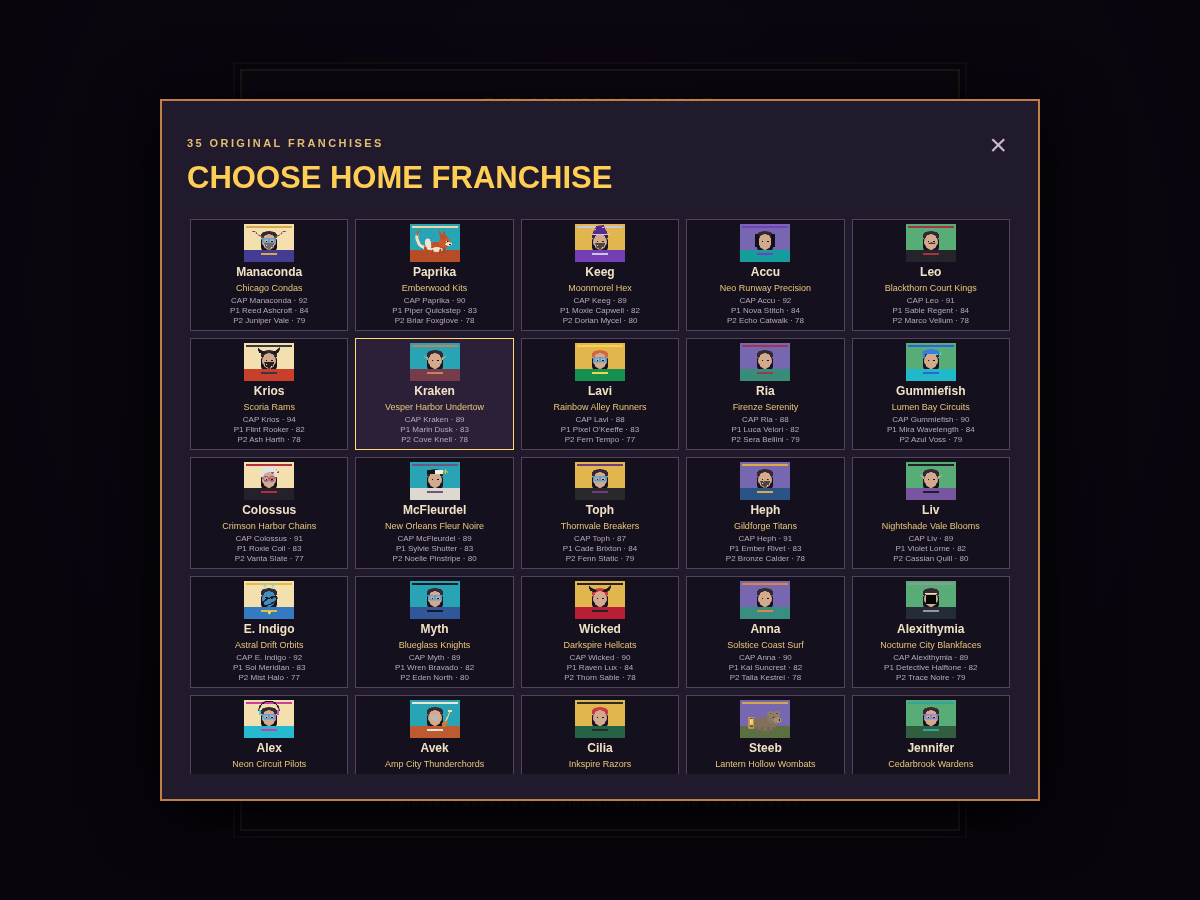
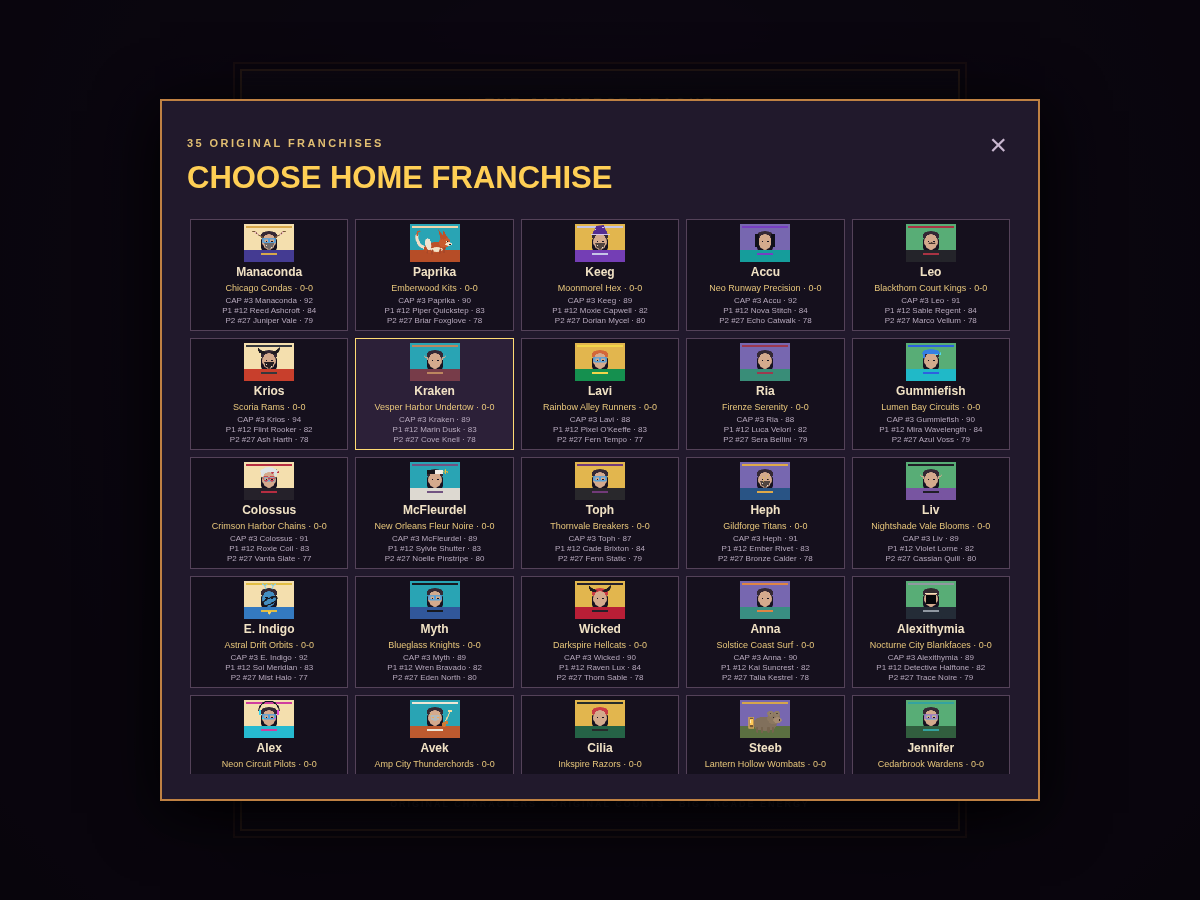
Show jersey numbers and team records in franchise grid

diff --git a/dist/JAMVERSE_96.html b/dist/JAMVERSE_96.html
@@ -764,13 +764,15 @@ function drawPortraitSignature(team,card){
   c.restore();
 }
 function updateTeamCards(){const home=teamById(homeSelect.value),away=teamById(awaySelect.value);drawCaptainCard(home,$('choose-home'));drawPortraitSignature(home,$('choose-home'));drawCaptainCard(away,$('choose-away'));drawPortraitSignature(away,$('choose-away'));}
-for(const t of teams){const button=document.createElement('button');button.type='button';button.className='team-choice';button.dataset.teamId=t.id;const portrait=document.createElement('canvas');portrait.width=84;portrait.height=64;const name=document.createElement('b'),franchise=document.createElement('i'),roster=document.createElement('small');roster.className='roster-summary';roster.textContent=t.roster.map((athlete,index)=>`${index===0?'CAP':'P'+index} ${athlete.name} · ${athlete.ovr}`).join('\n');button.title=t.roster.map(athlete=>`${athlete.name} · OVR ${athlete.ovr} · ${Object.entries(athlete.stats).map(([rating,value])=>`${rating==='three'?'3PT':rating.toUpperCase()} ${value}`).join(' / ')}`).join('\n');button.append(portrait,name,franchise,roster);drawCaptainCard(t,button);drawPortraitSignature(t,button);button.addEventListener('click',()=>{const select=pickingSide==='home'?homeSelect:awaySelect;select.value=t.id;syncLineup(select,pickingSide==='home'?homeLineup:awayLineup);save();updateTeamCards();teamDialog.close();});teamGrid.append(button)}
+  for(const t of teams){const button=document.createElement('button');button.type='button';button.className='team-choice';button.dataset.teamId=t.id;const portrait=document.createElement('canvas');portrait.width=84;portrait.height=64;const name=document.createElement('b'),franchise=document.createElement('i'),roster=document.createElement('small');roster.className='roster-summary';roster.textContent=t.roster.map((athlete,index)=>`${index===0?'CAP':'P'+index} #${athlete.number} ${athlete.name} · ${athlete.ovr}`).join('\n');button.title=t.roster.map(athlete=>`#${athlete.number} ${athlete.name} · OVR ${athlete.ovr} · ${Object.entries(athlete.stats).map(([rating,value])=>`${rating==='three'?'3PT':rating.toUpperCase()} ${value}`).join(' / ')}`).join('\n');button.append(portrait,name,franchise,roster);drawCaptainCard(t,button);drawPortraitSignature(t,button);button.addEventListener('click',()=>{const select=pickingSide==='home'?homeSelect:awaySelect;select.value=t.id;syncLineup(select,pickingSide==='home'?homeLineup:awayLineup);save();updateTeamCards();teamDialog.close();});teamGrid.append(button)}
 for(const [side,button] of [['home',$('choose-home')],['away',$('choose-away')]])button.addEventListener('click',()=>{pickingSide=side;teamDialogTitle.textContent=`CHOOSE ${side.toUpperCase()} FRANCHISE`;teamDialog.showModal()});
 const saved=loadPreferences(safeStore,teams,createSeason,seasonLength);
 saved.season=typeof saved.season==='object'&&saved.season?saved.season:createSeason(homeSelect.value||teams[0].id);
+function refreshTeamRecords(){for(const t of teams){const button=teamGrid.querySelector(`[data-team-id="${t.id}"]`),record=saved.leagueRecords[t.id];if(button){button.querySelector('i').textContent=`${t.name} · ${record.wins}-${record.losses}`;button.querySelector('i').title=`${record.wins} wins, ${record.losses} losses`;}}}
 homeSelect.value=teams.some(t=>t.id===saved.home)?saved.home:teams[0].id;awaySelect.value=teams.some(t=>t.id===saved.away)?saved.away:teams[26].id;
 syncLineup(homeSelect,homeLineup,saved.homePartnerId);syncLineup(awaySelect,awayLineup,saved.awayPartnerId);
 updateTeamCards();
+refreshTeamRecords();
 musicVolume=saved.musicVolume;effectsVolume=saved.effectsVolume;screenShake=saved.screenShake!==false;reducedFlash=Boolean(saved.reducedFlash);teamMarkers=Boolean(saved.teamMarkers);textSize=Math.max(90,Math.min(120,Number(saved.textSize)||100));document.documentElement.style.setProperty('--ui-zoom',String(textSize/100));$('music-volume').value=Math.round(musicVolume*100);$('music-volume-value').textContent=`${Math.round(musicVolume*100)}%`;$('effects-volume').value=Math.round(effectsVolume*100);$('effects-volume-value').textContent=`${Math.round(effectsVolume*100)}%`;$('screen-shake').checked=screenShake;$('reduced-flash').checked=reducedFlash;$('team-markers').checked=teamMarkers;$('text-size').value=textSize;$('text-size-value').textContent=`${textSize}%`;
  $('difficulty').value=saved.difficulty||'Pro'; $('quarter').value=String(saved.quarter||180);$('two-players').checked=Boolean(saved.twoPlayers);$('same-team').checked=Boolean(saved.sameTeam);$('same-team').disabled=!$('two-players').checked;
 function save(){safeStore.set(preferenceStorageKey,{schemaVersion:4,home:homeSelect.value,away:awaySelect.value,homePartnerId:homeLineup.value,awayPartnerId:awayLineup.value,musicVolume,effectsVolume,screenShake,reducedFlash,teamMarkers,textSize,controls:keysByPlayer,season:saved.season,leagueRecords:saved.leagueRecords,careerRecords:saved.careerRecords,difficulty:$('difficulty').value,quarter:Number($('quarter').value),twoPlayers:$('two-players').checked,sameTeam:$('same-team').checked});}
@@ -784,7 +786,7 @@ function pauseArcadeAudio(paused){if(!audio)return;if(paused&&!ui.audioPaused){u
 function beginMatch(options={}){if(homeSelect.value===awaySelect.value){eventText('Choose two different franchises for this matchup.');awaySelect.focus();return;}save();practice=Boolean(options.practice);campaign=Boolean(options.campaign);const home=teamById(homeSelect.value),away=teamById(awaySelect.value);match=createMatch({quarterSeconds:Number($('quarter').value),seed:Date.now()&0xffffffff,home,away,homePartnerId:homeLineup.value,awayPartnerId:awayLineup.value,difficulty:$('difficulty').value});match.teamNames=[home.name,away.name];match.practice=practice;if(practice)match.clock=9999;keyboardPlayers=[match.players[0].id];if($('two-players').checked)keyboardPlayers.push(match.players[$('same-team').checked?1:2].id);controlled=[...keyboardPlayers];ui.gamepadIds=new Map();ui.gpPending=new Map();ui.gamepadOnly=false;mode='game';screenStart.classList.add('hidden');screenGame.classList.remove('hidden');document.querySelector('.touch-controls').classList.toggle('practice-mode',practice);$('game').focus();refreshControlHints();if(practice)$('game-controls-hint').textContent+=' · R RESET BALL';last=0;accumulator=0;cancelAnimationFrame(raf);raf=requestAnimationFrame(frame);startArcadeMusic();tone(620,.13,'square',.1);}
 $('play').addEventListener('click',()=>beginMatch());$('practice').addEventListener('click',()=>beginMatch({practice:true}));
 $('settings').addEventListener('click',()=>$('settings-dialog').showModal());$('campaign').addEventListener('click',()=>showCampaign());
-$('reset-progress').addEventListener('click',()=>{if(!window.confirm('Reset the saved season, team standings, and player career records on this device? Settings and controls will stay saved.'))return;saved.season=createSeason(homeSelect.value);saved.leagueRecords=createLeagueTable(teams);saved.careerRecords=createCareerRecords(teams);save();eventText('Saved records reset.');});
+$('reset-progress').addEventListener('click',()=>{if(!window.confirm('Reset the saved season, team standings, and player career records on this device? Settings and controls will stay saved.'))return;saved.season=createSeason(homeSelect.value);saved.leagueRecords=createLeagueTable(teams);saved.careerRecords=createCareerRecords(teams);refreshTeamRecords();save();eventText('Saved records reset.');});
 $('standings').addEventListener('click',()=>{const list=$('standings-list');list.replaceChildren();rankLeague(saved.leagueRecords,teams).forEach((row,index)=>{const item=document.createElement('li'),diff=row.pointDifferential>0?`+${row.pointDifferential}`:String(row.pointDifferential);item.textContent=`${String(index+1).padStart(2,'0')}  ${row.teamName}  ${row.wins}-${row.losses}  PF ${row.pointsFor}  PA ${row.pointsAgainst}  ${diff}`;list.append(item)});$('standings-dialog').showModal()});
 $('careers').addEventListener('click',()=>{const list=$('career-list');list.replaceChildren();const leaders=rankCareerLeaders(saved.careerRecords,teams);if(!leaders.length){const empty=document.createElement('li');empty.textContent='No completed games yet. Play a full game to start the records.';list.append(empty)}else leaders.forEach((row,index)=>{const item=document.createElement('li');item.textContent=`${String(index+1).padStart(2,'0')}  ${row.name} · ${row.team}  ${row.points} PTS  ${row.dunks} DUNK  ${row.assists} AST  ${row.rebounds} REB  ${row.games} GP`;list.append(item)});$('career-dialog').showModal()});
 $('back-menu').addEventListener('click',()=>{cancelAnimationFrame(raf);stopArcadeMusic();mode='menu';screenGame.classList.add('hidden');screenStart.classList.remove('hidden');save();});
@@ -835,7 +837,7 @@ function frame(now){
     accumulator+=dt;const tick=1/60;const frames=inputs(),heldFrames=frames.map(input=>({...input,shootPressed:false,passPressed:false,stealPressed:false,shovePressed:false,blockPressed:false,pausePressed:false}));let firstTick=true;
     if(match.phase==='break'){const substituted=new Set();for(const input of frames){if(!input.passPressed)continue;const athlete=match.players.find(p=>p.id===input.playerId);if(athlete&&!substituted.has(athlete.team)){substitutePlayer(match,athlete.team);substituted.add(athlete.team);}}}
     while(accumulator>=tick&&!match.pause){stepMatch(match,firstTick?frames:heldFrames);if(firstTick)consumeInputEdges(frames);firstTick=false;accumulator-=tick;if(match.phase==='final')break;}
-    if(match.phase==='final'&&!match.recordsRecorded){if(!practice){saved.leagueRecords=recordLeagueResult(saved.leagueRecords,homeSelect.value,awaySelect.value,match.score);saved.careerRecords=recordCareerMatch(saved.careerRecords,match);}if(campaign){saved.season=recordSeasonResult(saved.season,match.winner===0);match.campaignResult=match.winner===0?'WIN — ADVANCED':'LOSS — RUN ENDED';}match.recordsRecorded=true;save();}
+    if(match.phase==='final'&&!match.recordsRecorded){if(!practice){saved.leagueRecords=recordLeagueResult(saved.leagueRecords,homeSelect.value,awaySelect.value,match.score);saved.careerRecords=recordCareerMatch(saved.careerRecords,match);refreshTeamRecords();}if(campaign){saved.season=recordSeasonResult(saved.season,match.winner===0);match.campaignResult=match.winner===0?'WIN — ADVANCED':'LOSS — RUN ENDED';}match.recordsRecorded=true;save();}
     playGameCue();
   }
   render();raf=requestAnimationFrame(frame);

diff --git a/dist/src/main.js b/dist/src/main.js
@@ -108,13 +108,15 @@ function drawPortraitSignature(team,card){
   c.restore();
 }
 function updateTeamCards(){const home=teamById(homeSelect.value),away=teamById(awaySelect.value);drawCaptainCard(home,$('choose-home'));drawPortraitSignature(home,$('choose-home'));drawCaptainCard(away,$('choose-away'));drawPortraitSignature(away,$('choose-away'));}
-for(const t of teams){const button=document.createElement('button');button.type='button';button.className='team-choice';button.dataset.teamId=t.id;const portrait=document.createElement('canvas');portrait.width=84;portrait.height=64;const name=document.createElement('b'),franchise=document.createElement('i'),roster=document.createElement('small');roster.className='roster-summary';roster.textContent=t.roster.map((athlete,index)=>`${index===0?'CAP':'P'+index} ${athlete.name} · ${athlete.ovr}`).join('\n');button.title=t.roster.map(athlete=>`${athlete.name} · OVR ${athlete.ovr} · ${Object.entries(athlete.stats).map(([rating,value])=>`${rating==='three'?'3PT':rating.toUpperCase()} ${value}`).join(' / ')}`).join('\n');button.append(portrait,name,franchise,roster);drawCaptainCard(t,button);drawPortraitSignature(t,button);button.addEventListener('click',()=>{const select=pickingSide==='home'?homeSelect:awaySelect;select.value=t.id;syncLineup(select,pickingSide==='home'?homeLineup:awayLineup);save();updateTeamCards();teamDialog.close();});teamGrid.append(button)}
+  for(const t of teams){const button=document.createElement('button');button.type='button';button.className='team-choice';button.dataset.teamId=t.id;const portrait=document.createElement('canvas');portrait.width=84;portrait.height=64;const name=document.createElement('b'),franchise=document.createElement('i'),roster=document.createElement('small');roster.className='roster-summary';roster.textContent=t.roster.map((athlete,index)=>`${index===0?'CAP':'P'+index} #${athlete.number} ${athlete.name} · ${athlete.ovr}`).join('\n');button.title=t.roster.map(athlete=>`#${athlete.number} ${athlete.name} · OVR ${athlete.ovr} · ${Object.entries(athlete.stats).map(([rating,value])=>`${rating==='three'?'3PT':rating.toUpperCase()} ${value}`).join(' / ')}`).join('\n');button.append(portrait,name,franchise,roster);drawCaptainCard(t,button);drawPortraitSignature(t,button);button.addEventListener('click',()=>{const select=pickingSide==='home'?homeSelect:awaySelect;select.value=t.id;syncLineup(select,pickingSide==='home'?homeLineup:awayLineup);save();updateTeamCards();teamDialog.close();});teamGrid.append(button)}
 for(const [side,button] of [['home',$('choose-home')],['away',$('choose-away')]])button.addEventListener('click',()=>{pickingSide=side;teamDialogTitle.textContent=`CHOOSE ${side.toUpperCase()} FRANCHISE`;teamDialog.showModal()});
 const saved=loadPreferences(safeStore,teams,createSeason,seasonLength);
 saved.season=typeof saved.season==='object'&&saved.season?saved.season:createSeason(homeSelect.value||teams[0].id);
+function refreshTeamRecords(){for(const t of teams){const button=teamGrid.querySelector(`[data-team-id="${t.id}"]`),record=saved.leagueRecords[t.id];if(button){button.querySelector('i').textContent=`${t.name} · ${record.wins}-${record.losses}`;button.querySelector('i').title=`${record.wins} wins, ${record.losses} losses`;}}}
 homeSelect.value=teams.some(t=>t.id===saved.home)?saved.home:teams[0].id;awaySelect.value=teams.some(t=>t.id===saved.away)?saved.away:teams[26].id;
 syncLineup(homeSelect,homeLineup,saved.homePartnerId);syncLineup(awaySelect,awayLineup,saved.awayPartnerId);
 updateTeamCards();
+refreshTeamRecords();
 musicVolume=saved.musicVolume;effectsVolume=saved.effectsVolume;screenShake=saved.screenShake!==false;reducedFlash=Boolean(saved.reducedFlash);teamMarkers=Boolean(saved.teamMarkers);textSize=Math.max(90,Math.min(120,Number(saved.textSize)||100));document.documentElement.style.setProperty('--ui-zoom',String(textSize/100));$('music-volume').value=Math.round(musicVolume*100);$('music-volume-value').textContent=`${Math.round(musicVolume*100)}%`;$('effects-volume').value=Math.round(effectsVolume*100);$('effects-volume-value').textContent=`${Math.round(effectsVolume*100)}%`;$('screen-shake').checked=screenShake;$('reduced-flash').checked=reducedFlash;$('team-markers').checked=teamMarkers;$('text-size').value=textSize;$('text-size-value').textContent=`${textSize}%`;
  $('difficulty').value=saved.difficulty||'Pro'; $('quarter').value=String(saved.quarter||180);$('two-players').checked=Boolean(saved.twoPlayers);$('same-team').checked=Boolean(saved.sameTeam);$('same-team').disabled=!$('two-players').checked;
 function save(){safeStore.set(preferenceStorageKey,{schemaVersion:4,home:homeSelect.value,away:awaySelect.value,homePartnerId:homeLineup.value,awayPartnerId:awayLineup.value,musicVolume,effectsVolume,screenShake,reducedFlash,teamMarkers,textSize,controls:keysByPlayer,season:saved.season,leagueRecords:saved.leagueRecords,careerRecords:saved.careerRecords,difficulty:$('difficulty').value,quarter:Number($('quarter').value),twoPlayers:$('two-players').checked,sameTeam:$('same-team').checked});}
@@ -128,7 +130,7 @@ function pauseArcadeAudio(paused){if(!audio)return;if(paused&&!ui.audioPaused){u
 function beginMatch(options={}){if(homeSelect.value===awaySelect.value){eventText('Choose two different franchises for this matchup.');awaySelect.focus();return;}save();practice=Boolean(options.practice);campaign=Boolean(options.campaign);const home=teamById(homeSelect.value),away=teamById(awaySelect.value);match=createMatch({quarterSeconds:Number($('quarter').value),seed:Date.now()&0xffffffff,home,away,homePartnerId:homeLineup.value,awayPartnerId:awayLineup.value,difficulty:$('difficulty').value});match.teamNames=[home.name,away.name];match.practice=practice;if(practice)match.clock=9999;keyboardPlayers=[match.players[0].id];if($('two-players').checked)keyboardPlayers.push(match.players[$('same-team').checked?1:2].id);controlled=[...keyboardPlayers];ui.gamepadIds=new Map();ui.gpPending=new Map();ui.gamepadOnly=false;mode='game';screenStart.classList.add('hidden');screenGame.classList.remove('hidden');document.querySelector('.touch-controls').classList.toggle('practice-mode',practice);$('game').focus();refreshControlHints();if(practice)$('game-controls-hint').textContent+=' · R RESET BALL';last=0;accumulator=0;cancelAnimationFrame(raf);raf=requestAnimationFrame(frame);startArcadeMusic();tone(620,.13,'square',.1);}
 $('play').addEventListener('click',()=>beginMatch());$('practice').addEventListener('click',()=>beginMatch({practice:true}));
 $('settings').addEventListener('click',()=>$('settings-dialog').showModal());$('campaign').addEventListener('click',()=>showCampaign());
-$('reset-progress').addEventListener('click',()=>{if(!window.confirm('Reset the saved season, team standings, and player career records on this device? Settings and controls will stay saved.'))return;saved.season=createSeason(homeSelect.value);saved.leagueRecords=createLeagueTable(teams);saved.careerRecords=createCareerRecords(teams);save();eventText('Saved records reset.');});
+$('reset-progress').addEventListener('click',()=>{if(!window.confirm('Reset the saved season, team standings, and player career records on this device? Settings and controls will stay saved.'))return;saved.season=createSeason(homeSelect.value);saved.leagueRecords=createLeagueTable(teams);saved.careerRecords=createCareerRecords(teams);refreshTeamRecords();save();eventText('Saved records reset.');});
 $('standings').addEventListener('click',()=>{const list=$('standings-list');list.replaceChildren();rankLeague(saved.leagueRecords,teams).forEach((row,index)=>{const item=document.createElement('li'),diff=row.pointDifferential>0?`+${row.pointDifferential}`:String(row.pointDifferential);item.textContent=`${String(index+1).padStart(2,'0')}  ${row.teamName}  ${row.wins}-${row.losses}  PF ${row.pointsFor}  PA ${row.pointsAgainst}  ${diff}`;list.append(item)});$('standings-dialog').showModal()});
 $('careers').addEventListener('click',()=>{const list=$('career-list');list.replaceChildren();const leaders=rankCareerLeaders(saved.careerRecords,teams);if(!leaders.length){const empty=document.createElement('li');empty.textContent='No completed games yet. Play a full game to start the records.';list.append(empty)}else leaders.forEach((row,index)=>{const item=document.createElement('li');item.textContent=`${String(index+1).padStart(2,'0')}  ${row.name} · ${row.team}  ${row.points} PTS  ${row.dunks} DUNK  ${row.assists} AST  ${row.rebounds} REB  ${row.games} GP`;list.append(item)});$('career-dialog').showModal()});
 $('back-menu').addEventListener('click',()=>{cancelAnimationFrame(raf);stopArcadeMusic();mode='menu';screenGame.classList.add('hidden');screenStart.classList.remove('hidden');save();});
@@ -179,7 +181,7 @@ function frame(now){
     accumulator+=dt;const tick=1/60;const frames=inputs(),heldFrames=frames.map(input=>({...input,shootPressed:false,passPressed:false,stealPressed:false,shovePressed:false,blockPressed:false,pausePressed:false}));let firstTick=true;
     if(match.phase==='break'){const substituted=new Set();for(const input of frames){if(!input.passPressed)continue;const athlete=match.players.find(p=>p.id===input.playerId);if(athlete&&!substituted.has(athlete.team)){substitutePlayer(match,athlete.team);substituted.add(athlete.team);}}}
     while(accumulator>=tick&&!match.pause){stepMatch(match,firstTick?frames:heldFrames);if(firstTick)consumeInputEdges(frames);firstTick=false;accumulator-=tick;if(match.phase==='final')break;}
-    if(match.phase==='final'&&!match.recordsRecorded){if(!practice){saved.leagueRecords=recordLeagueResult(saved.leagueRecords,homeSelect.value,awaySelect.value,match.score);saved.careerRecords=recordCareerMatch(saved.careerRecords,match);}if(campaign){saved.season=recordSeasonResult(saved.season,match.winner===0);match.campaignResult=match.winner===0?'WIN — ADVANCED':'LOSS — RUN ENDED';}match.recordsRecorded=true;save();}
+    if(match.phase==='final'&&!match.recordsRecorded){if(!practice){saved.leagueRecords=recordLeagueResult(saved.leagueRecords,homeSelect.value,awaySelect.value,match.score);saved.careerRecords=recordCareerMatch(saved.careerRecords,match);refreshTeamRecords();}if(campaign){saved.season=recordSeasonResult(saved.season,match.winner===0);match.campaignResult=match.winner===0?'WIN — ADVANCED':'LOSS — RUN ENDED';}match.recordsRecorded=true;save();}
     playGameCue();
   }
   render();raf=requestAnimationFrame(frame);

diff --git a/src/main.js b/src/main.js
@@ -108,13 +108,15 @@ function drawPortraitSignature(team,card){
   c.restore();
 }
 function updateTeamCards(){const home=teamById(homeSelect.value),away=teamById(awaySelect.value);drawCaptainCard(home,$('choose-home'));drawPortraitSignature(home,$('choose-home'));drawCaptainCard(away,$('choose-away'));drawPortraitSignature(away,$('choose-away'));}
-for(const t of teams){const button=document.createElement('button');button.type='button';button.className='team-choice';button.dataset.teamId=t.id;const portrait=document.createElement('canvas');portrait.width=84;portrait.height=64;const name=document.createElement('b'),franchise=document.createElement('i'),roster=document.createElement('small');roster.className='roster-summary';roster.textContent=t.roster.map((athlete,index)=>`${index===0?'CAP':'P'+index} ${athlete.name} · ${athlete.ovr}`).join('\n');button.title=t.roster.map(athlete=>`${athlete.name} · OVR ${athlete.ovr} · ${Object.entries(athlete.stats).map(([rating,value])=>`${rating==='three'?'3PT':rating.toUpperCase()} ${value}`).join(' / ')}`).join('\n');button.append(portrait,name,franchise,roster);drawCaptainCard(t,button);drawPortraitSignature(t,button);button.addEventListener('click',()=>{const select=pickingSide==='home'?homeSelect:awaySelect;select.value=t.id;syncLineup(select,pickingSide==='home'?homeLineup:awayLineup);save();updateTeamCards();teamDialog.close();});teamGrid.append(button)}
+  for(const t of teams){const button=document.createElement('button');button.type='button';button.className='team-choice';button.dataset.teamId=t.id;const portrait=document.createElement('canvas');portrait.width=84;portrait.height=64;const name=document.createElement('b'),franchise=document.createElement('i'),roster=document.createElement('small');roster.className='roster-summary';roster.textContent=t.roster.map((athlete,index)=>`${index===0?'CAP':'P'+index} #${athlete.number} ${athlete.name} · ${athlete.ovr}`).join('\n');button.title=t.roster.map(athlete=>`#${athlete.number} ${athlete.name} · OVR ${athlete.ovr} · ${Object.entries(athlete.stats).map(([rating,value])=>`${rating==='three'?'3PT':rating.toUpperCase()} ${value}`).join(' / ')}`).join('\n');button.append(portrait,name,franchise,roster);drawCaptainCard(t,button);drawPortraitSignature(t,button);button.addEventListener('click',()=>{const select=pickingSide==='home'?homeSelect:awaySelect;select.value=t.id;syncLineup(select,pickingSide==='home'?homeLineup:awayLineup);save();updateTeamCards();teamDialog.close();});teamGrid.append(button)}
 for(const [side,button] of [['home',$('choose-home')],['away',$('choose-away')]])button.addEventListener('click',()=>{pickingSide=side;teamDialogTitle.textContent=`CHOOSE ${side.toUpperCase()} FRANCHISE`;teamDialog.showModal()});
 const saved=loadPreferences(safeStore,teams,createSeason,seasonLength);
 saved.season=typeof saved.season==='object'&&saved.season?saved.season:createSeason(homeSelect.value||teams[0].id);
+function refreshTeamRecords(){for(const t of teams){const button=teamGrid.querySelector(`[data-team-id="${t.id}"]`),record=saved.leagueRecords[t.id];if(button){button.querySelector('i').textContent=`${t.name} · ${record.wins}-${record.losses}`;button.querySelector('i').title=`${record.wins} wins, ${record.losses} losses`;}}}
 homeSelect.value=teams.some(t=>t.id===saved.home)?saved.home:teams[0].id;awaySelect.value=teams.some(t=>t.id===saved.away)?saved.away:teams[26].id;
 syncLineup(homeSelect,homeLineup,saved.homePartnerId);syncLineup(awaySelect,awayLineup,saved.awayPartnerId);
 updateTeamCards();
+refreshTeamRecords();
 musicVolume=saved.musicVolume;effectsVolume=saved.effectsVolume;screenShake=saved.screenShake!==false;reducedFlash=Boolean(saved.reducedFlash);teamMarkers=Boolean(saved.teamMarkers);textSize=Math.max(90,Math.min(120,Number(saved.textSize)||100));document.documentElement.style.setProperty('--ui-zoom',String(textSize/100));$('music-volume').value=Math.round(musicVolume*100);$('music-volume-value').textContent=`${Math.round(musicVolume*100)}%`;$('effects-volume').value=Math.round(effectsVolume*100);$('effects-volume-value').textContent=`${Math.round(effectsVolume*100)}%`;$('screen-shake').checked=screenShake;$('reduced-flash').checked=reducedFlash;$('team-markers').checked=teamMarkers;$('text-size').value=textSize;$('text-size-value').textContent=`${textSize}%`;
  $('difficulty').value=saved.difficulty||'Pro'; $('quarter').value=String(saved.quarter||180);$('two-players').checked=Boolean(saved.twoPlayers);$('same-team').checked=Boolean(saved.sameTeam);$('same-team').disabled=!$('two-players').checked;
 function save(){safeStore.set(preferenceStorageKey,{schemaVersion:4,home:homeSelect.value,away:awaySelect.value,homePartnerId:homeLineup.value,awayPartnerId:awayLineup.value,musicVolume,effectsVolume,screenShake,reducedFlash,teamMarkers,textSize,controls:keysByPlayer,season:saved.season,leagueRecords:saved.leagueRecords,careerRecords:saved.careerRecords,difficulty:$('difficulty').value,quarter:Number($('quarter').value),twoPlayers:$('two-players').checked,sameTeam:$('same-team').checked});}
@@ -128,7 +130,7 @@ function pauseArcadeAudio(paused){if(!audio)return;if(paused&&!ui.audioPaused){u
 function beginMatch(options={}){if(homeSelect.value===awaySelect.value){eventText('Choose two different franchises for this matchup.');awaySelect.focus();return;}save();practice=Boolean(options.practice);campaign=Boolean(options.campaign);const home=teamById(homeSelect.value),away=teamById(awaySelect.value);match=createMatch({quarterSeconds:Number($('quarter').value),seed:Date.now()&0xffffffff,home,away,homePartnerId:homeLineup.value,awayPartnerId:awayLineup.value,difficulty:$('difficulty').value});match.teamNames=[home.name,away.name];match.practice=practice;if(practice)match.clock=9999;keyboardPlayers=[match.players[0].id];if($('two-players').checked)keyboardPlayers.push(match.players[$('same-team').checked?1:2].id);controlled=[...keyboardPlayers];ui.gamepadIds=new Map();ui.gpPending=new Map();ui.gamepadOnly=false;mode='game';screenStart.classList.add('hidden');screenGame.classList.remove('hidden');document.querySelector('.touch-controls').classList.toggle('practice-mode',practice);$('game').focus();refreshControlHints();if(practice)$('game-controls-hint').textContent+=' · R RESET BALL';last=0;accumulator=0;cancelAnimationFrame(raf);raf=requestAnimationFrame(frame);startArcadeMusic();tone(620,.13,'square',.1);}
 $('play').addEventListener('click',()=>beginMatch());$('practice').addEventListener('click',()=>beginMatch({practice:true}));
 $('settings').addEventListener('click',()=>$('settings-dialog').showModal());$('campaign').addEventListener('click',()=>showCampaign());
-$('reset-progress').addEventListener('click',()=>{if(!window.confirm('Reset the saved season, team standings, and player career records on this device? Settings and controls will stay saved.'))return;saved.season=createSeason(homeSelect.value);saved.leagueRecords=createLeagueTable(teams);saved.careerRecords=createCareerRecords(teams);save();eventText('Saved records reset.');});
+$('reset-progress').addEventListener('click',()=>{if(!window.confirm('Reset the saved season, team standings, and player career records on this device? Settings and controls will stay saved.'))return;saved.season=createSeason(homeSelect.value);saved.leagueRecords=createLeagueTable(teams);saved.careerRecords=createCareerRecords(teams);refreshTeamRecords();save();eventText('Saved records reset.');});
 $('standings').addEventListener('click',()=>{const list=$('standings-list');list.replaceChildren();rankLeague(saved.leagueRecords,teams).forEach((row,index)=>{const item=document.createElement('li'),diff=row.pointDifferential>0?`+${row.pointDifferential}`:String(row.pointDifferential);item.textContent=`${String(index+1).padStart(2,'0')}  ${row.teamName}  ${row.wins}-${row.losses}  PF ${row.pointsFor}  PA ${row.pointsAgainst}  ${diff}`;list.append(item)});$('standings-dialog').showModal()});
 $('careers').addEventListener('click',()=>{const list=$('career-list');list.replaceChildren();const leaders=rankCareerLeaders(saved.careerRecords,teams);if(!leaders.length){const empty=document.createElement('li');empty.textContent='No completed games yet. Play a full game to start the records.';list.append(empty)}else leaders.forEach((row,index)=>{const item=document.createElement('li');item.textContent=`${String(index+1).padStart(2,'0')}  ${row.name} · ${row.team}  ${row.points} PTS  ${row.dunks} DUNK  ${row.assists} AST  ${row.rebounds} REB  ${row.games} GP`;list.append(item)});$('career-dialog').showModal()});
 $('back-menu').addEventListener('click',()=>{cancelAnimationFrame(raf);stopArcadeMusic();mode='menu';screenGame.classList.add('hidden');screenStart.classList.remove('hidden');save();});
@@ -179,7 +181,7 @@ function frame(now){
     accumulator+=dt;const tick=1/60;const frames=inputs(),heldFrames=frames.map(input=>({...input,shootPressed:false,passPressed:false,stealPressed:false,shovePressed:false,blockPressed:false,pausePressed:false}));let firstTick=true;
     if(match.phase==='break'){const substituted=new Set();for(const input of frames){if(!input.passPressed)continue;const athlete=match.players.find(p=>p.id===input.playerId);if(athlete&&!substituted.has(athlete.team)){substitutePlayer(match,athlete.team);substituted.add(athlete.team);}}}
     while(accumulator>=tick&&!match.pause){stepMatch(match,firstTick?frames:heldFrames);if(firstTick)consumeInputEdges(frames);firstTick=false;accumulator-=tick;if(match.phase==='final')break;}
-    if(match.phase==='final'&&!match.recordsRecorded){if(!practice){saved.leagueRecords=recordLeagueResult(saved.leagueRecords,homeSelect.value,awaySelect.value,match.score);saved.careerRecords=recordCareerMatch(saved.careerRecords,match);}if(campaign){saved.season=recordSeasonResult(saved.season,match.winner===0);match.campaignResult=match.winner===0?'WIN — ADVANCED':'LOSS — RUN ENDED';}match.recordsRecorded=true;save();}
+    if(match.phase==='final'&&!match.recordsRecorded){if(!practice){saved.leagueRecords=recordLeagueResult(saved.leagueRecords,homeSelect.value,awaySelect.value,match.score);saved.careerRecords=recordCareerMatch(saved.careerRecords,match);refreshTeamRecords();}if(campaign){saved.season=recordSeasonResult(saved.season,match.winner===0);match.campaignResult=match.winner===0?'WIN — ADVANCED':'LOSS — RUN ENDED';}match.recordsRecorded=true;save();}
     playGameCue();
   }
   render();raf=requestAnimationFrame(frame);

diff --git a/tools/e2e_smoke.py b/tools/e2e_smoke.py
@@ -50,6 +50,7 @@ try:
         assert page.locator('.team-choice canvas').count()==35
         assert '3PT' in page.locator(".team-choice[data-team-id='chicago-condas']").get_attribute('title')
         assert 'Manaconda' in page.locator(".team-choice[data-team-id='chicago-condas'] .roster-summary").inner_text()
+        assert '#3' in page.locator(".team-choice[data-team-id='chicago-condas'] .roster-summary").inner_text()
         page.wait_for_timeout(120)
         page.screenshot(path=str(OUT/'team-selection-grid.png'))
         page.click(".team-choice[data-team-id='greenwall-giants']")
@@ -213,6 +214,7 @@ try:
         assert season['teamId']=='chicago-condas' and season['round']==1,season
         records=page.evaluate("JSON.parse(localStorage.getItem('jamverse96-v4')).leagueRecords")
         assert records['chicago-condas']['played']==standings_before+1 and records['chicago-condas']['wins']+records['chicago-condas']['losses']==records['chicago-condas']['played'],records['chicago-condas']
+        assert records['chicago-condas']['wins'] in (0,1) and '-' in page.locator(".team-choice[data-team-id='chicago-condas'] i").inner_text()
         careers=page.evaluate("JSON.parse(localStorage.getItem('jamverse96-v4')).careerRecords")
         assert len(careers)==105 and any(row['games']>0 for row in careers.values())
         page.click('#back-menu')

diff --git a/docs/SESSION_HANDOFF.md b/docs/SESSION_HANDOFF.md
@@ -2,7 +2,7 @@
 
 ## Current state
 
-- Repository: `/workspace/Conda-Jam`, active branch `work`; the previous `HEAD` is merged into local `main`. The current uncommitted change adds a confirmed reset for season/league/career records while preserving settings. No remote push or deployment occurred.
+- Repository: `/workspace/Conda-Jam`, active branch `work`; local `main` is fast-forwarded through `ae606f4`. Current uncommitted changes make jersey numbers and live team W-L visible on every franchise card. No remote push or deployment occurred.
 - The repository contains a playable zero-dependency browser basketball game and a generated standalone build at `dist/JAMVERSE_96.html`. The standalone file inlines the interface styling and game modules; Chromium loaded it over a local static server with no external requests, loaded all 35 franchises/105 athletes, unlocked music, and started a match.
 - The roster includes all 35 canonical captains, 105 named athletes, selectable starters, substitutions, 35 captain portraits with roster ratings, and distinctive procedural court art. The game supports movement, turbo, pass, shoot, dunks, blocks/steals, loose-ball rebounds, scoring, possessions, clock/period rules, overtime, match completion, CPU opponents, local co-op, touch, and Gamepad API controls. Recent core improvements add directional pass poses, timed scoring celebrations, timed pass/steal/rebound/celebration poses, free-clock practice with keyboard/touch ball reset, optional screen shake suppressed by reduced flash, four-made-basket FIRE duration with a fresh streak required to reignite, made-run high-water tracking, dunk/streak box-score columns, and dunk career totals, and turnover/steal attribution for shot-clock violations, pass interceptions, and out-of-bounds play; turnovers appear in the final box score.
 - Version 1 settings/season progress and version 2/3 preferences migrate to version 4, adding saved 35-franchise team standings and 105-athlete career totals, with malformed saves and unavailable local storage safely defaulting. Chromium verifies migration, four local humans via keyboard plus three Gamepad API users, four-gamepad-only play, and keyboard fallback after controller disconnect. Physical controller variations remain untested.
@@ -15,6 +15,7 @@
 - `npm run build`: static preview and self-contained standalone HTML generated.
 - `npm run test:e2e`: Chromium journeys pass for save migration, controls, a full default length match, keyboard/touch practice reset, Season Run, saved 35-team league table, career leaders, captain portrait grid, audio/accessibility settings, and standalone offline loading. Restricted sandbox Chromium cannot open its crash-report socket; the successful run used the approved elevated execution.
 - The same Chromium suite additionally confirms that canceling the reset preserves saved records and confirming it clears league and career statistics and season progress while preserving settings and key bindings.
+- Latest Chromium suite also checks visible uniform numbers and team W-L labels on franchise cards; the grid screenshot was refreshed to show the new presentation.
 - `npm run simulate:league`: latest benchmark completed 100/100 matches, average final scores 4.95/4.85 and eight overtimes (814,538 total ticks) after the timed action-pose updates.
 
 See `FEATURE_MATRIX.md`, `QA_REPORT.md`, and `KNOWN_ISSUES.md` for evidence and remaining limitations.

diff --git a/README.md b/README.md
@@ -38,7 +38,7 @@ During a quarter break, press **P** to rotate the home partner with the third ro
 
 **LOCAL 2P** assigns Player 2 to the away team. Add **TEAMMATE CO-OP** to assign both keyboard players to the selected home pair while the away team stays CPU controlled. This option is available only with Local 2P enabled.
 
-Choose any two franchises from the 35-team grid or dropdowns, choose each captain's second starter, select CPU difficulty and quarter length, then tip off. Rookie CPU shoots less often and has lower accuracy; Legend extends its shooting range and improves shooting, passing, steals, and blocks. Normal games have four periods, a 24-second shot clock, 2/3-point field goals, overtime on ties, and quick inbounds. Three consecutive makes by the same athlete without a teammate scoring start a fire streak; an opposing basket ends it, and it expires after four more made baskets by that player. Season Run plays an eight-game route against distinct franchises, saves wins locally, advances after each win, and ends on a loss. Settings separately save music and effects levels, optional score/dunk screen shake, reduced crowd twinkle, UI scaling from 90–120%, and color-independent team markers. Practice mode has free-running clocks; press **R** on keyboard, or **RESET** on touch, to restore the ball to the selected player. Completed non-practice games update the 35-team league table and an all-time player leader board, saved locally. The title screen includes a captain portrait and all three athlete ratings on every franchise card.
+Choose any two franchises from the 35-team grid or dropdowns, choose each captain's second starter, select CPU difficulty and quarter length, then tip off. Rookie CPU shoots less often and has lower accuracy; Legend extends its shooting range and improves shooting, passing, steals, and blocks. Normal games have four periods, a 24-second shot clock, 2/3-point field goals, overtime on ties, and quick inbounds. Three consecutive makes by the same athlete without a teammate scoring start a fire streak; an opposing basket ends it, and it expires after four more made baskets by that player. Season Run plays an eight-game route against distinct franchises, saves wins locally, advances after each win, and ends on a loss. Settings separately save music and effects levels, optional score/dunk screen shake, reduced crowd twinkle, UI scaling from 90–120%, and color-independent team markers. Practice mode has free-running clocks; press **R** on keyboard, or **RESET** on touch, to restore the ball to the selected player. Completed non-practice games update the 35-team league table and an all-time player leader board, saved locally. Each franchise card shows its captain portrait, all three athlete names, numbers and OVRs, current team W-L, and all category ratings on focus.
 
 ## Development checks
 

diff --git a/docs/FEATURE_MATRIX.md b/docs/FEATURE_MATRIX.md
@@ -4,7 +4,7 @@
 
 | Requirement | Status | Evidence / gap |
 |---|---|---|
-| Browser boot, title menu, 35-franchise grid, captain cards and team arena branding | PASS | `npm run test:e2e`; browser asserts 35 drawn captain portraits, displays all three roster names and OVR ratings per franchise with full attributes on focus, captures the grid, and checks selection updates; arena includes original animated pixel-person/creature crowd rows and fictional JAM!/96/HOME signs; courts show team color, center initial, and franchise slogan |
+| Browser boot, title menu, 35-franchise grid, captain cards and team arena branding | PASS | `npm run test:e2e`; browser asserts 35 drawn captain portraits, displays all three roster names, uniform numbers, OVR ratings, and live team W-L per franchise with full attributes on focus, captures the grid, and checks selection updates; arena includes original animated pixel-person/creature crowd rows and fictional JAM!/96/HOME signs; courts show team color, center initial, and franchise slogan |
 | Self-contained offline playable build | PASS | `npm run build` generates `dist/JAMVERSE_96.html` with all app code and CSS inline; Chromium opens that single file through a local static server, confirms 35/105 roster loads, starts a match, and observes no external asset requests |
 | 35 franchises, 105 unique athlete IDs, 35 captains, no Cleo | PASS | `npm run validate:content`; `tests/content.test.js` pins all 35 captain IDs, names, and rigs and verifies unique roster names/numbers and visual seeds, supported render rigs, ratings/skill vectors, and team presentation fields |
 | Starter selection and between-period substitution from each three-athlete roster | PASS | Pregame lineup selectors plus P/O quarter-break rotation; core test checks active lineup and preserved box score across repeat substitution |
